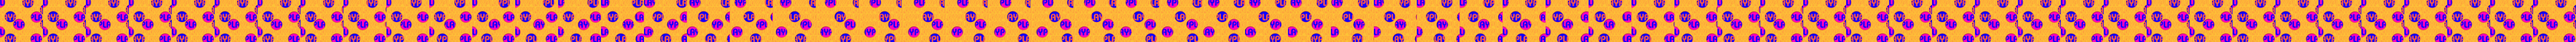
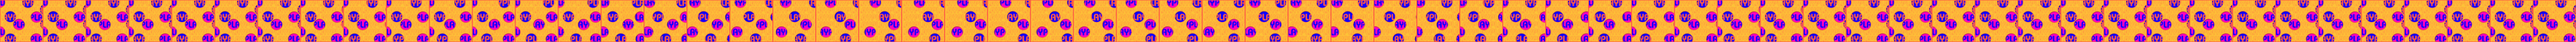
feat :  animation 교체

Changed region(s): [[0.0, 0.9783, 1.0, 1.0], [0.0, 0.0, 1.0, 0.0217]]

diff --git a/src/scenes/game-scene.ts b/src/scenes/game-scene.ts
@@ -39,29 +39,29 @@ export class GameScene extends Phaser.Scene {
     this.load.image('title', './assets/images/scene/title.png');                
     this.load.image('footer', './assets/images/scene/footer.png');
     this.load.spritesheet("animation1", "./assets/images/ani/01_animation.png", { frameWidth: 92, frameHeight: 92 });
-    this.load.spritesheet("animation2", "./assets/images/ani/02_animation.png", { frameWidth: 90, frameHeight: 90 });
-    this.load.spritesheet("animation3", "./assets/images/ani/03_animation.png", { frameWidth: 90, frameHeight: 90 });
-    this.load.spritesheet("animation4", "./assets/images/ani/04_animation.png", { frameWidth: 90, frameHeight: 90 });
-    this.load.spritesheet("animation5", "./assets/images/ani/05_animation.png", { frameWidth: 90, frameHeight: 90 });
-    this.load.spritesheet("animation6", "./assets/images/ani/06_animation.png", { frameWidth: 90, frameHeight: 90 });
-    this.load.spritesheet("animation7", "./assets/images/ani/07_animation.png", { frameWidth: 90, frameHeight: 90 });
-    this.load.spritesheet("animation8", "./assets/images/ani/08_animation.png", { frameWidth: 90, frameHeight: 90 });
-    this.load.spritesheet("animation9", "./assets/images/ani/09_animation.png", { frameWidth: 90, frameHeight: 90 });
-    this.load.spritesheet("animation10", "./assets/images/ani/10_animation.png", { frameWidth: 90, frameHeight: 90 });
-    this.load.spritesheet("animation11", "./assets/images/ani/11_animation.png", { frameWidth: 90, frameHeight: 90 });
-    this.load.spritesheet("animation12", "./assets/images/ani/12_animation.png", { frameWidth: 90, frameHeight: 90 });
-    this.load.spritesheet("animationb1", "./assets/images/ani/01_b_animation.png", { frameWidth: 90, frameHeight: 90 });
-    this.load.spritesheet("animationb2", "./assets/images/ani/02_b_animation.png", { frameWidth: 90, frameHeight: 90 });
-    this.load.spritesheet("animationb3", "./assets/images/ani/03_b_animation.png", { frameWidth: 90, frameHeight: 90 });
-    this.load.spritesheet("animationb4", "./assets/images/ani/04_b_animation.png", { frameWidth: 90, frameHeight: 90 });
-    this.load.spritesheet("animationb5", "./assets/images/ani/05_b_animation.png", { frameWidth: 90, frameHeight: 90 });
-    this.load.spritesheet("animationb6", "./assets/images/ani/06_b_animation.png", { frameWidth: 90, frameHeight: 90 });
-    this.load.spritesheet("animationb7", "./assets/images/ani/07_b_animation.png", { frameWidth: 90, frameHeight: 90 });
-    this.load.spritesheet("animationb8", "./assets/images/ani/08_b_animation.png", { frameWidth: 90, frameHeight: 90 });
-    this.load.spritesheet("animationb9", "./assets/images/ani/09_b_animation.png", { frameWidth: 90, frameHeight: 90 });
-    this.load.spritesheet("animationb10", "./assets/images/ani/10_b_animation.png", { frameWidth: 90, frameHeight: 90 });
-    this.load.spritesheet("animationb11", "./assets/images/ani/11_b_animation.png", { frameWidth: 90, frameHeight: 90 });
-    this.load.spritesheet("animationb12", "./assets/images/ani/12_b_animation.png", { frameWidth: 90, frameHeight: 90 });
+    this.load.spritesheet("animation2", "./assets/images/ani/02_animation.png", { frameWidth: 92, frameHeight: 92 });
+    this.load.spritesheet("animation3", "./assets/images/ani/03_animation.png", { frameWidth: 92, frameHeight: 92 });
+    this.load.spritesheet("animation4", "./assets/images/ani/04_animation.png", { frameWidth: 92, frameHeight: 92 });
+    this.load.spritesheet("animation5", "./assets/images/ani/05_animation.png", { frameWidth: 92, frameHeight: 92 });
+    this.load.spritesheet("animation6", "./assets/images/ani/06_animation.png", { frameWidth: 92, frameHeight: 92 });
+    this.load.spritesheet("animation7", "./assets/images/ani/07_animation.png", { frameWidth: 92, frameHeight: 92 });
+    this.load.spritesheet("animation8", "./assets/images/ani/08_animation.png", { frameWidth: 92, frameHeight: 92 });
+    this.load.spritesheet("animation9", "./assets/images/ani/09_animation.png", { frameWidth: 92, frameHeight: 92 });
+    this.load.spritesheet("animation10", "./assets/images/ani/10_animation.png", { frameWidth: 92, frameHeight: 92 });
+    this.load.spritesheet("animation11", "./assets/images/ani/11_animation.png", { frameWidth: 92, frameHeight: 92 });
+    this.load.spritesheet("animation12", "./assets/images/ani/12_animation.png", { frameWidth: 92, frameHeight: 92 });
+    this.load.spritesheet("animationb1", "./assets/images/ani/01_b_animation.png", { frameWidth: 92, frameHeight: 92 });
+    this.load.spritesheet("animationb2", "./assets/images/ani/02_b_animation.png", { frameWidth: 92, frameHeight: 92 });
+    this.load.spritesheet("animationb3", "./assets/images/ani/03_b_animation.png", { frameWidth: 92, frameHeight: 92 });
+    this.load.spritesheet("animationb4", "./assets/images/ani/04_b_animation.png", { frameWidth: 92, frameHeight: 92 });
+    this.load.spritesheet("animationb5", "./assets/images/ani/05_b_animation.png", { frameWidth: 92, frameHeight: 92 });
+    this.load.spritesheet("animationb6", "./assets/images/ani/06_b_animation.png", { frameWidth: 92, frameHeight: 92 });
+    this.load.spritesheet("animationb7", "./assets/images/ani/07_b_animation.png", { frameWidth: 92, frameHeight: 92 });
+    this.load.spritesheet("animationb8", "./assets/images/ani/08_b_animation.png", { frameWidth: 92, frameHeight: 92 });
+    this.load.spritesheet("animationb9", "./assets/images/ani/09_b_animation.png", { frameWidth: 92, frameHeight: 92 });
+    this.load.spritesheet("animationb10", "./assets/images/ani/10_b_animation.png", { frameWidth: 92, frameHeight: 92 });
+    this.load.spritesheet("animationb11", "./assets/images/ani/11_b_animation.png", { frameWidth: 92, frameHeight: 92 });
+    this.load.spritesheet("animationb12", "./assets/images/ani/12_b_animation.png", { frameWidth: 92, frameHeight: 92 });
     this.load.image('gameover1', './assets/images/scene/gameover-popup-connected.png');                
     this.load.image('gameover2', './assets/images/scene/gameover-popup-non-left.png');                
     this.load.image('gameover3', './assets/images/scene/gameover-popup-timeup.png');

diff --git a/src/scenes/start-scene.ts b/src/scenes/start-scene.ts
@@ -29,8 +29,8 @@ export class StartScene extends Phaser.Scene {
 
   preload(): void {
     this.load.image('background', './assets/images/scene/landing-page-grid.png');
-    this.load.image('badge-1', './assets/images/scene/badge-1.png');
-    this.load.image('badge-2', './assets/images/scene/badge-2.png');
+    this.load.image('badge-1', './assets/images/scene/badge_01.png');
+    this.load.image('badge-2', './assets/images/scene/badge_02.png');
     this.load.image('badge-3', './assets/images/scene/badge-3.png');
     this.load.image('howtoplay-off', './assets/images/scene/howtoplay-off.png');
     this.load.image('howtoplay-on', './assets/images/scene/howtoplay-on.png');
